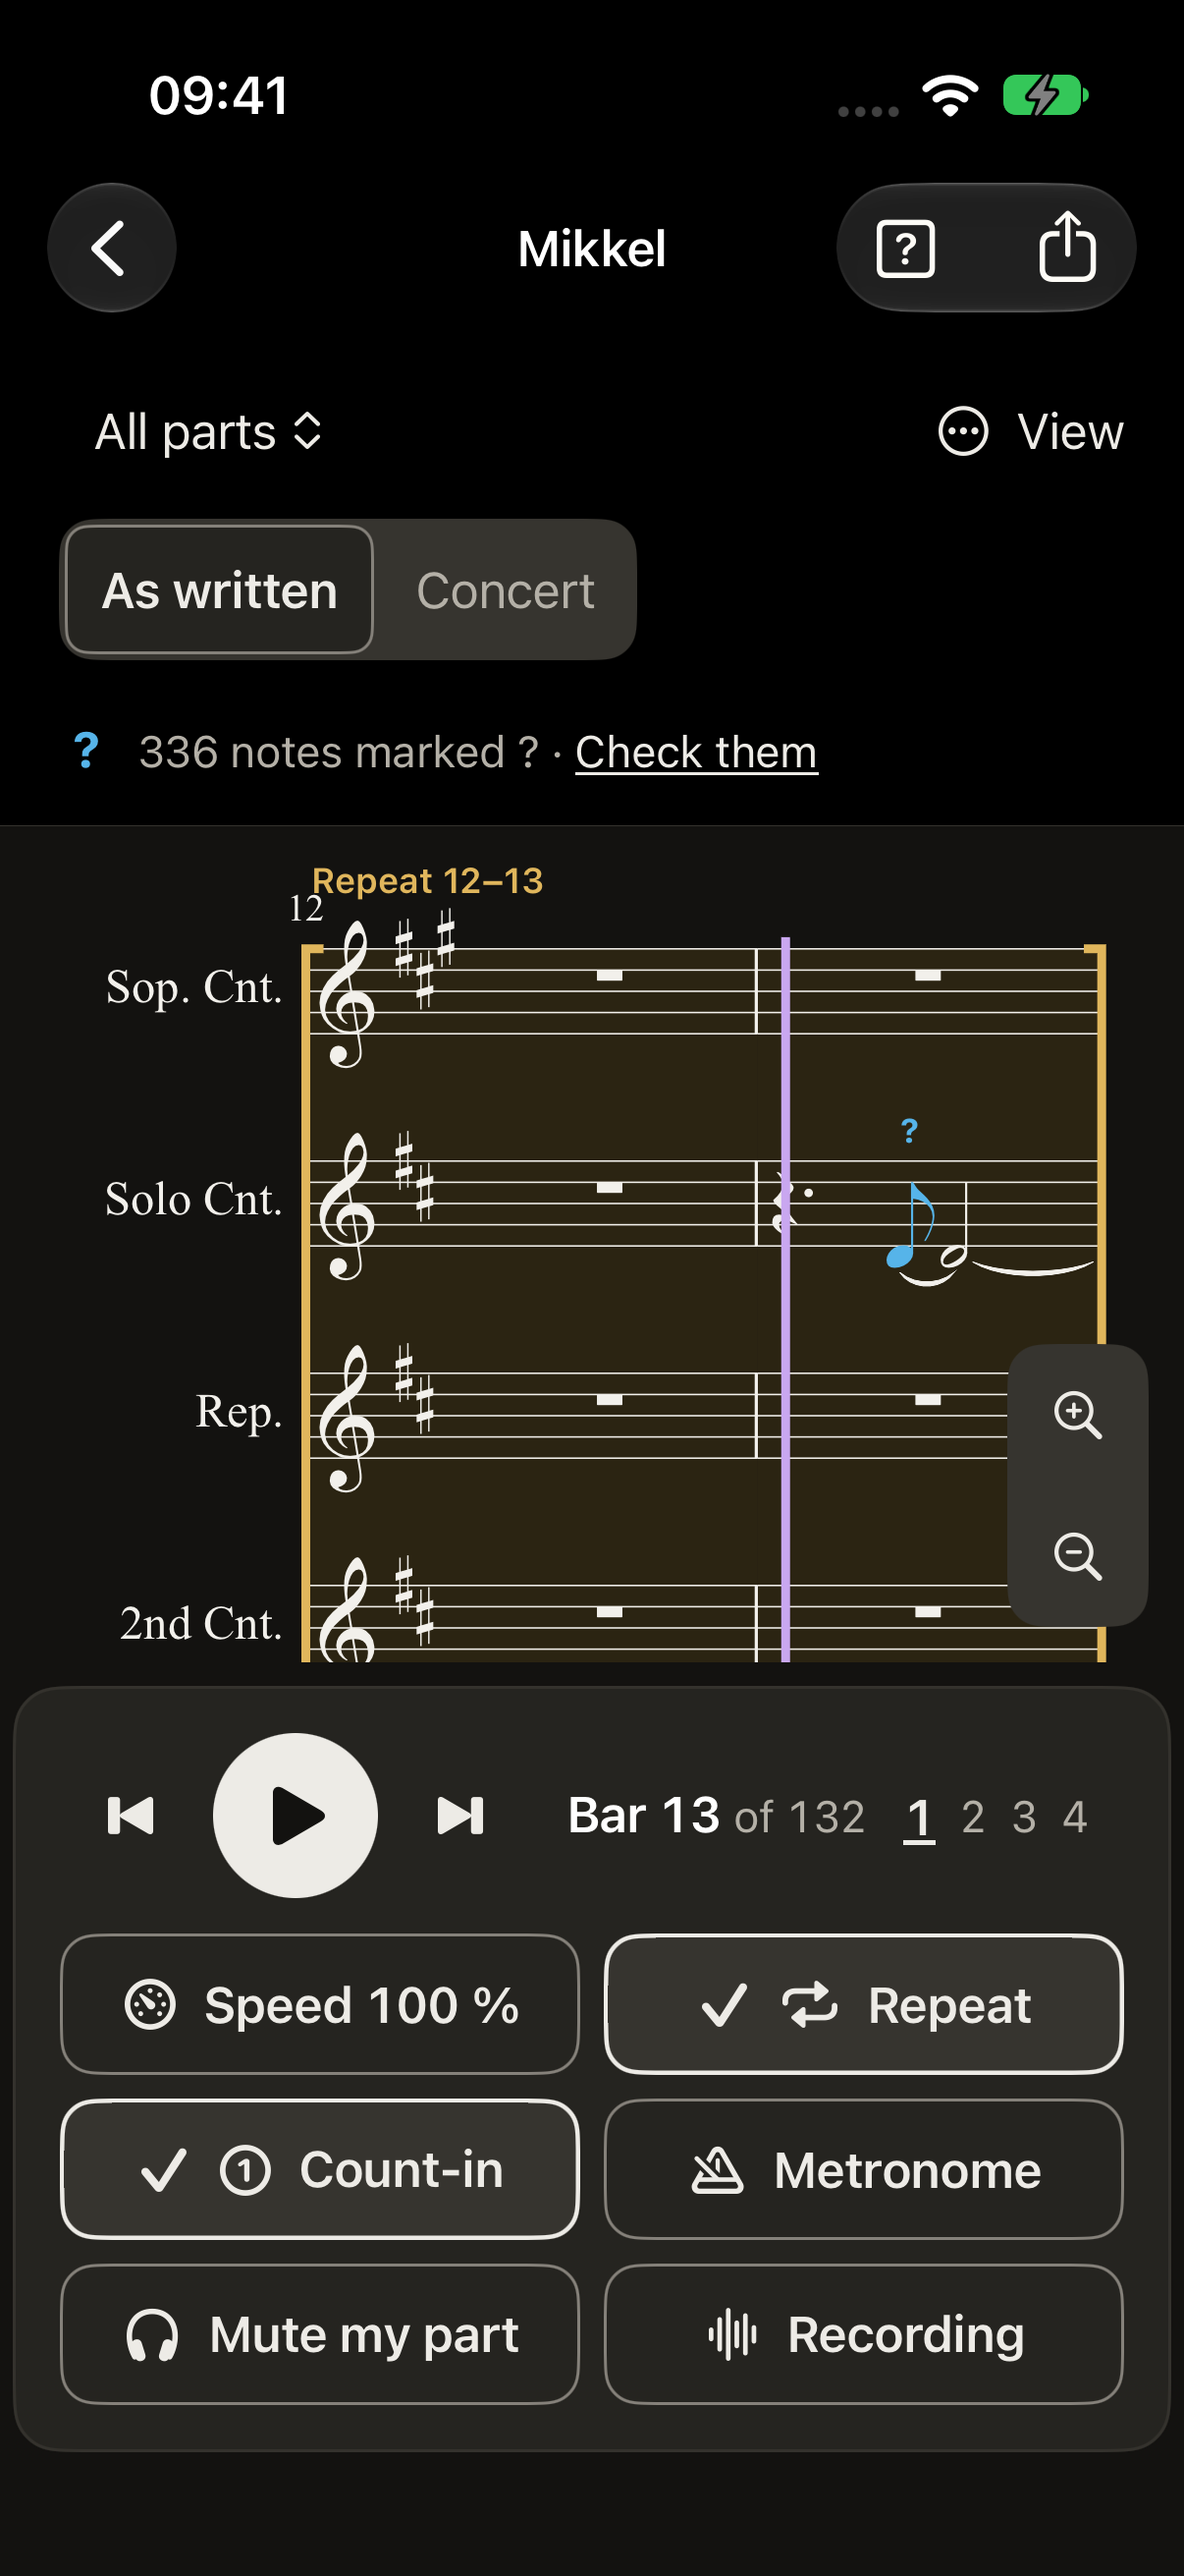
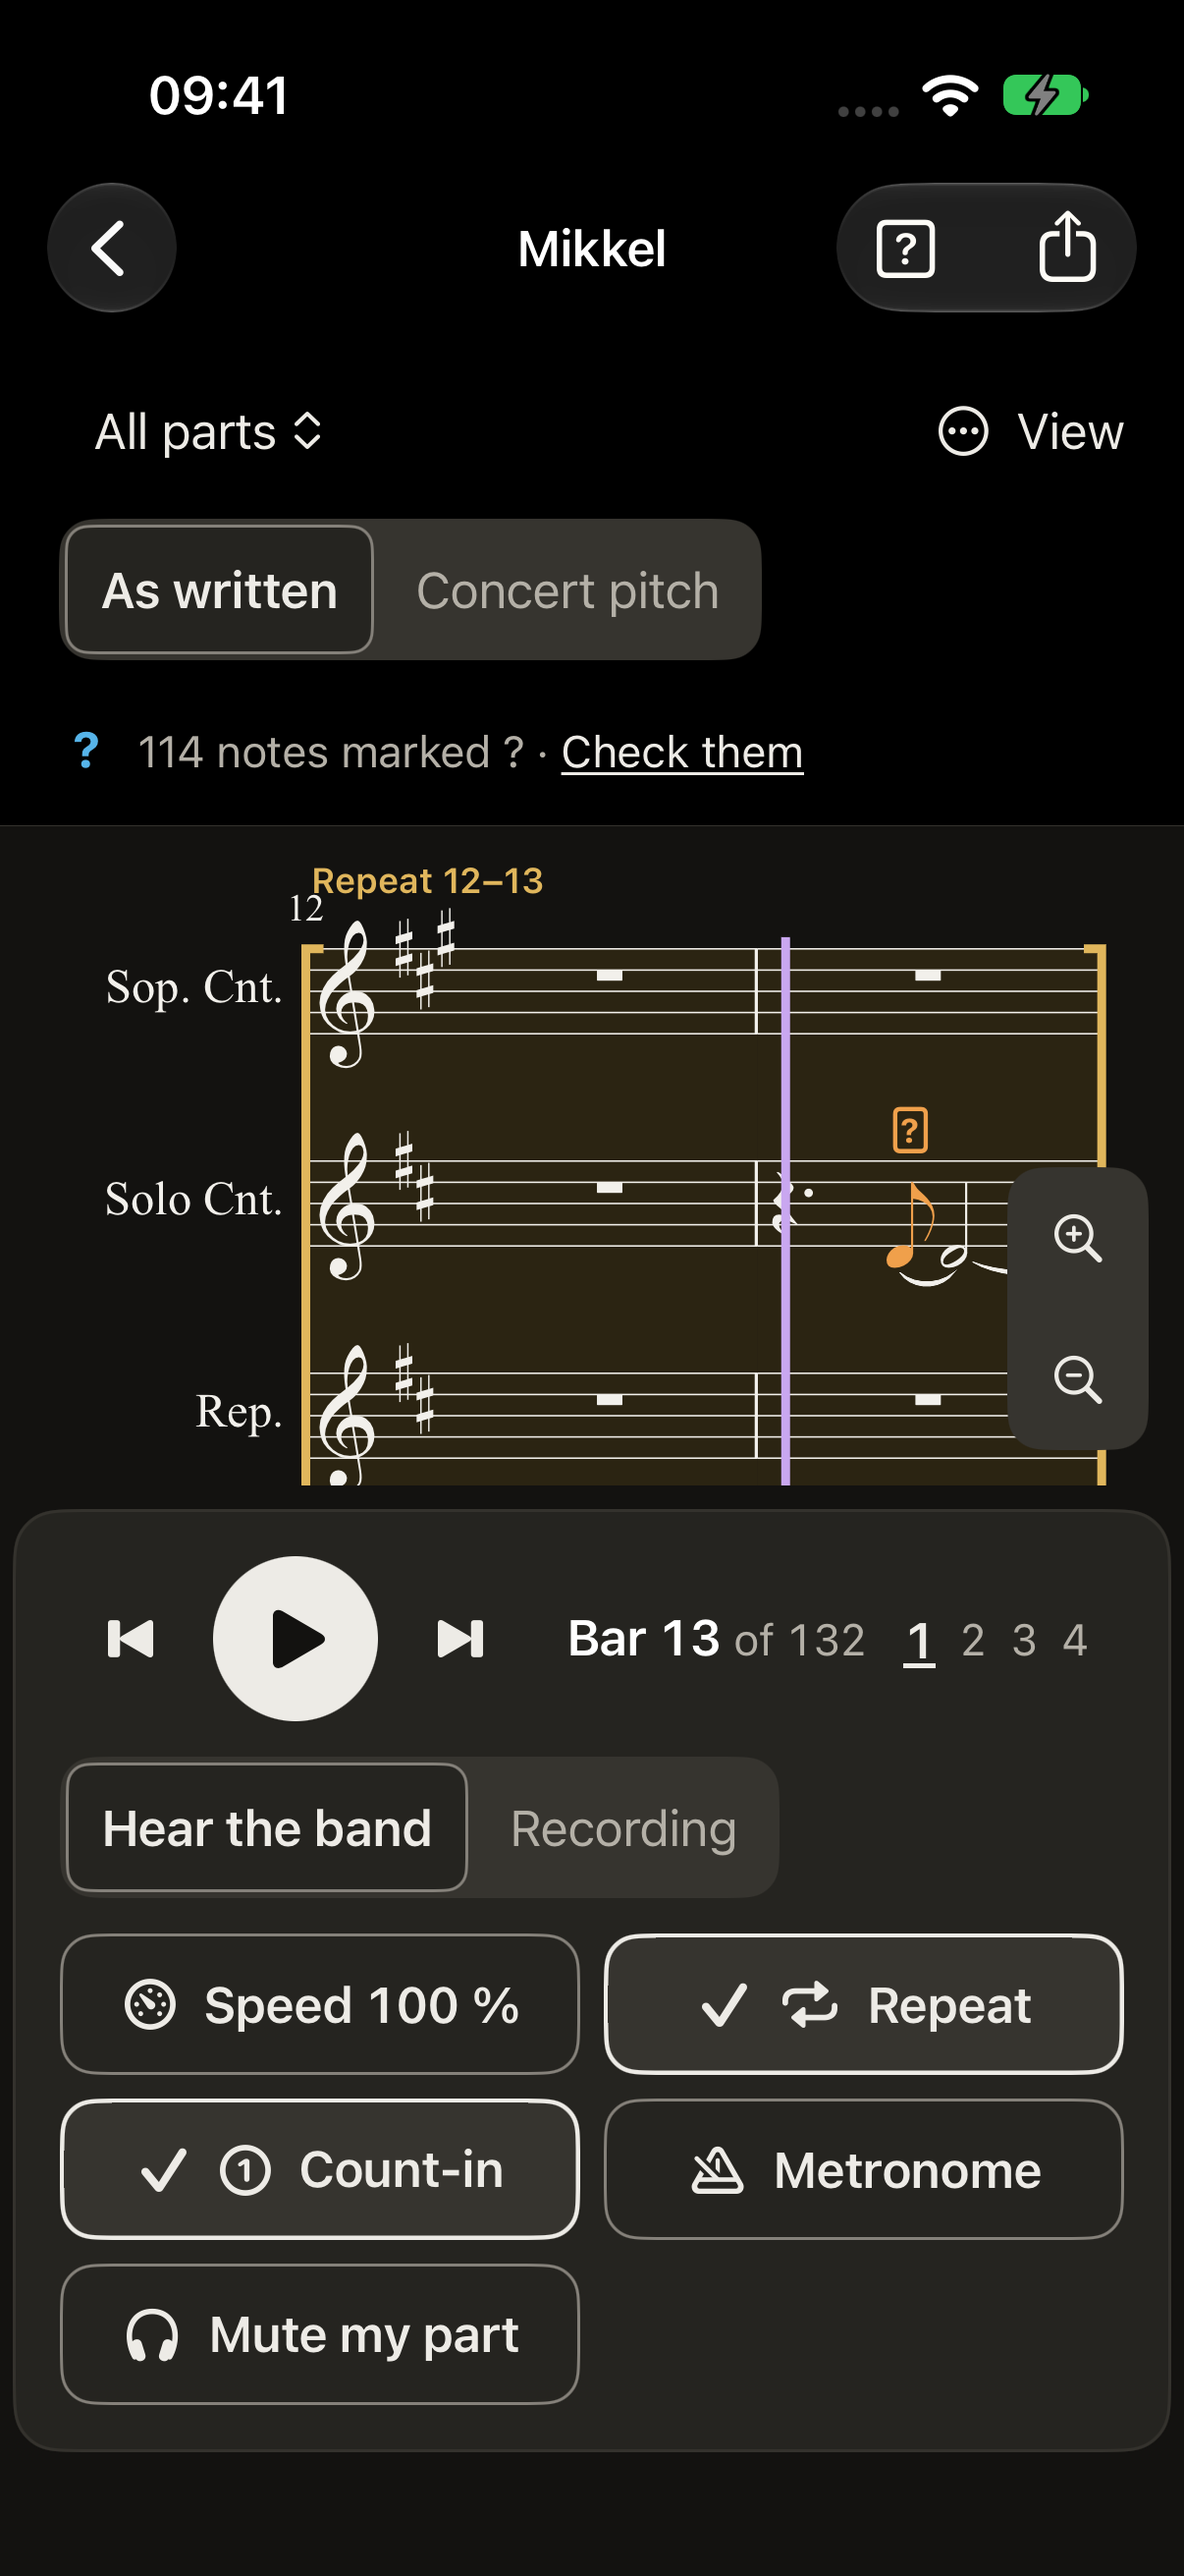
fix(apple): "Hear the recording" chip on iPhone, the Hear control only where it fits, Dynamic Type for the "?" legend mark

diff --git a/apps/apple/App/Views/ScoreScreen.swift b/apps/apple/App/Views/ScoreScreen.swift
@@ -365,7 +365,6 @@ struct PlayerBar: View {
             } else {
                 VStack(alignment: .leading, spacing: Space.s3) {
                     HStack(spacing: Space.s3) { transport; position; Spacer(minLength: 0) }
-                    hear
                     LazyVGrid(columns: [GridItem(.adaptive(minimum: 140), spacing: Space.s2)], spacing: Space.s2) { chipsPhone }
                 }
                 .card(padding: Space.s4)
@@ -442,7 +441,7 @@ struct PlayerBar: View {
     @ViewBuilder private var hear: some View {
         if model.hasOriginal {
             Segmented(label: String(localized: "Hear the band or the recording"), selection: $model.hearOriginal,
-                      options: [(false, String(localized: "Hear the band")), (true, String(localized: "Recording"))])
+                      options: [(false, String(localized: "Hear the band")), (true, String(localized: "Recording"))], wraps: false)
             .accessibilityHint(Text("Switch between the score and the recording at the same place."))
             .accessibilityIdentifier("originalToggle")
         }
@@ -552,6 +551,13 @@ struct PlayerBar: View {
         Toggle(isOn: $model.countIn) { Label("Count-in", systemImage: BrasscribeIcon.countIn.systemName) }.toggleStyle(.chip).padShortcut("c")
         Toggle(isOn: $model.metronome) { Label("Metronome", systemImage: BrasscribeIcon.metronome.systemName) }.toggleStyle(.chip).padShortcut("m")
         muteMyPart
+        if model.hasOriginal {
+            // "Hear the recording": the words say it plays, never that it records
+            Toggle(isOn: $model.hearOriginal) { Label("Hear the recording", systemImage: BrasscribeIcon.listenBar.systemName) }
+                .toggleStyle(.chip)
+                .accessibilityHint(Text("Plays the recording instead of the band, at the same place."))
+                .accessibilityIdentifier("originalToggle")
+        }
     }
 }
 

diff --git a/apps/apple/App/Views/Components.swift b/apps/apple/App/Views/Components.swift
@@ -195,6 +195,9 @@ struct Segmented<Value: Hashable>: View {
     let label: String
     @Binding var selection: Value
     let options: [(value: Value, title: String)]
+    /// Fall back to one segment per row when the row doesn't fit. Off for short labels that
+    /// always fit (the fallback's measuring leaves an empty node for the audit to flag).
+    var wraps = true
     @Environment(\.dynamicTypeSize) private var typeSize
 
     /// At the largest text sizes the segments stack, one per row, so none wraps or squeezes.
@@ -203,6 +206,8 @@ struct Segmented<Value: Hashable>: View {
     var body: some View {
         if stacked {
             segments(vertical: true)
+        } else if !wraps {
+            segments(vertical: false)
         } else {
             ViewThatFits(in: .horizontal) {
                 segments(vertical: false)
@@ -362,7 +367,7 @@ struct UncertainMark: View {
     var body: some View {
         let color: Color = level == .veryUncertain ? .Brasscribe.veryUncertain : .Brasscribe.uncertain
         Text(verbatim: "?")
-            .font(.system(size: size, weight: .bold))
+            .font(.body.weight(.bold))   // Dynamic Type; the frame below scales with it
             .foregroundStyle(color)
             .frame(width: size * 1.1, height: size * 1.3)
             .overlay {

diff --git a/apps/apple/AppUITests/PlayUITests.swift b/apps/apple/AppUITests/PlayUITests.swift
@@ -261,7 +261,7 @@ final class PlayUITests: XCTestCase {
         var issues: [String] = []
         var blocking: [String] = []
         try app.performAccessibilityAudit { issue in
-            let line = "AUDIT \(issue.auditType) | \(issue.compactDescription) | \(issue.element?.identifier ?? "") \(issue.element?.label ?? "") type=\(issue.element?.elementType.rawValue ?? 0) frame=\(issue.element?.frame ?? .zero)"
+            let line = "AUDIT \(issue.auditType) | \(issue.compactDescription) | \(issue.element?.identifier ?? "") \(issue.element?.label ?? "") type=\(issue.element?.elementType.rawValue ?? 0) frame=\(issue.element?.frame ?? .zero) \(issue.detailedDescription.prefix(200))"
             issues.append(line)
             print(line)
             // Not ours: the system menu bar, and SwiftUI's unlabeled hosting groups: the

diff --git a/apps/apple/scripts/make-string-catalog.py b/apps/apple/scripts/make-string-catalog.py
@@ -462,6 +462,8 @@ NB = {
     "quaver": "åttendedelsnote",
     "semibreve": "helnote",
     "semiquaver": "sekstendedelsnote",
+    # the third usability review, 2
+    "Hear the recording": "Hør opptaket",
 }
 
 INFO_NB = {
